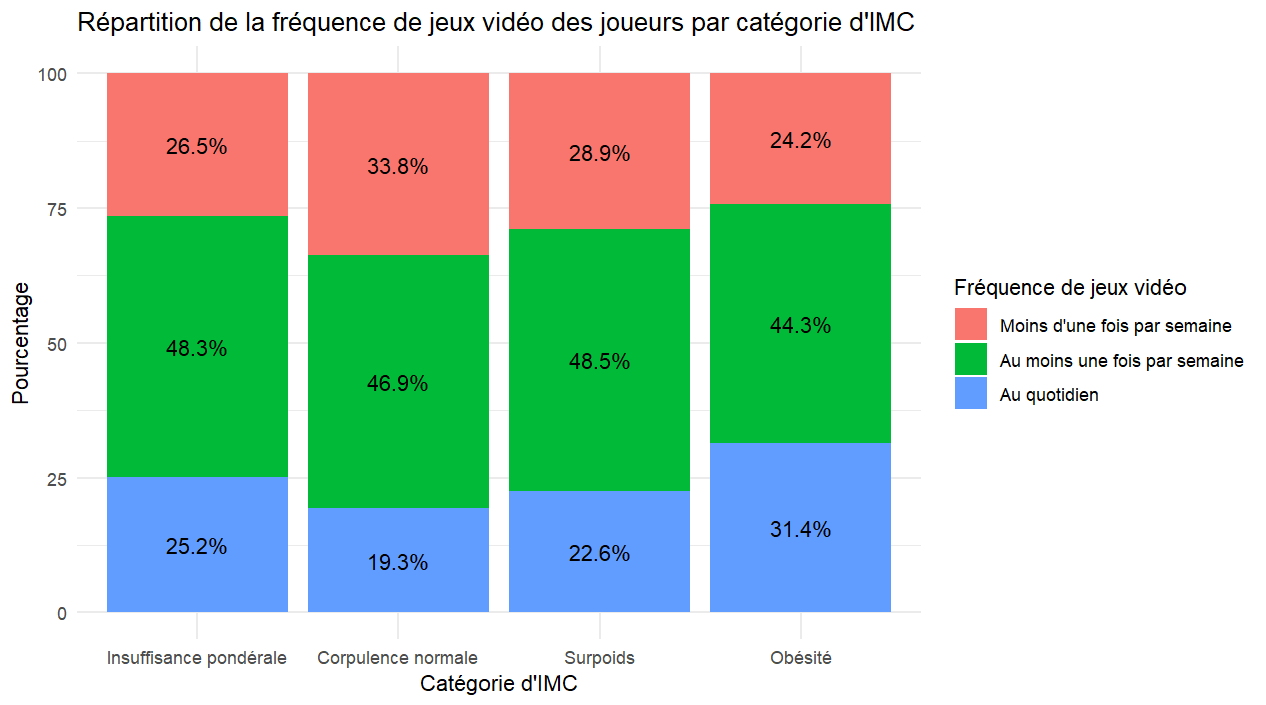
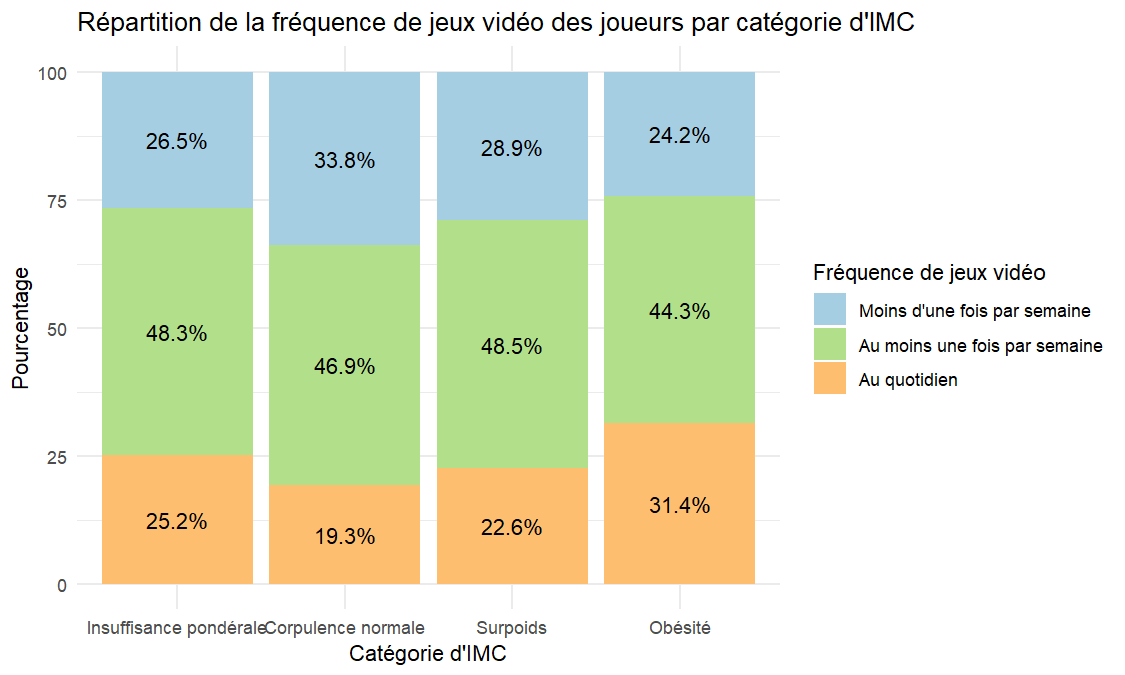
couleurs graphes P2

diff --git a/Sections/p2.tex b/Sections/p2.tex
@@ -224,7 +224,7 @@ varie si on étudie chaque catégorie de joueurs.
 \begin{figure}[H]
     \centering
     \includegraphics[width=1\textwidth]{Images/P2/JA_medecin.png}
-    \caption{Part des individus ayant été chez le médecin au cours de l'année pour chaque catégorie de joueurs de jeux vidéo.}
+    \caption{Part des individus ayant été chez le médecin au cours de l'année pour chaque catégorie de joueurs de jeux d'argent.}
     \label{fig:freq_medJV}
     \textit{Source: Enquête ESCAPAD 2022.}
 \end{figure}
@@ -240,7 +240,7 @@ les joueurs quotidiens de jeux d'argent prennent moins soin de leur santé.
 \begin{figure}[H]
     \centering
     \includegraphics[width=1\textwidth]{Images/P2/JV_medecin.png}
-    \caption{Part des individus ayant été chez le médecin au cours de l'année pour chaque catégorie de joueurs de jeux d'argent.}
+    \caption{Part des individus ayant été chez le médecin au cours de l'année pour chaque catégorie de joueurs de jeux vidéo.}
     \label{fig:freq_medJA}
     \textit{Source: Enquête ESCAPAD 2022.}
 \end{figure}

diff --git a/Sections/p3.tex b/Sections/p3.tex
@@ -129,7 +129,7 @@ Pour le score ADRS, nous rappelons:
 \begin{figure}[H]
     \centering
     \includegraphics[width=1\textwidth]{Images/P3/ACM1_dim12.png}
-    \caption{Interactions entre les conséquences des jeux d'argent sur la santé mentale}
+    \caption{Interactions entre les conséquences des jeux d'argent et la santé mentale}
     \label{fig: ACMP3}
 \end{figure}
 
@@ -156,6 +156,7 @@ Cette organisation confirme l'existence d'un gradient dans la fréquence des
 effets du jeu: les réponses intermédiaires sont cohérentes entre elles et
 traduisent des conséquences modérées, distinct des réponses extrêmes qui sont
 l'absence ou l'intensité maximale des conséquences étudiées.
+
 
 \subsection{Discussion des résultats}
 
